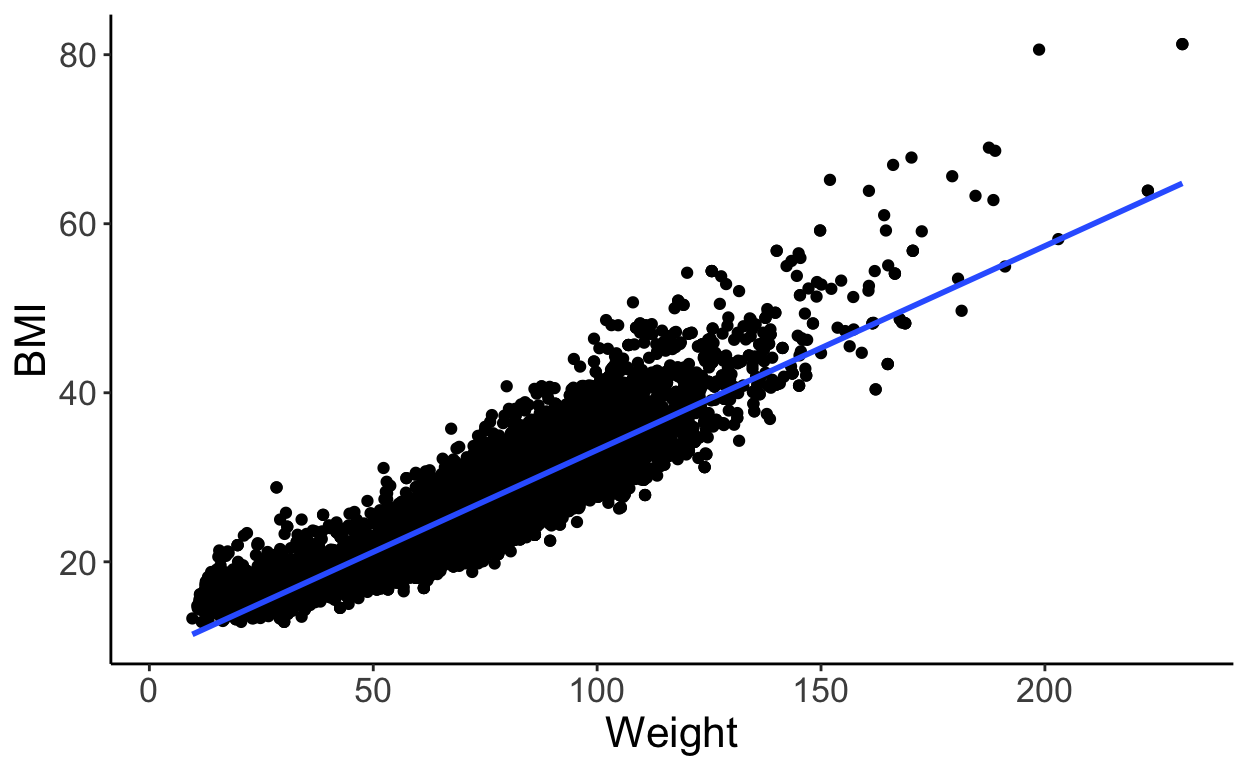
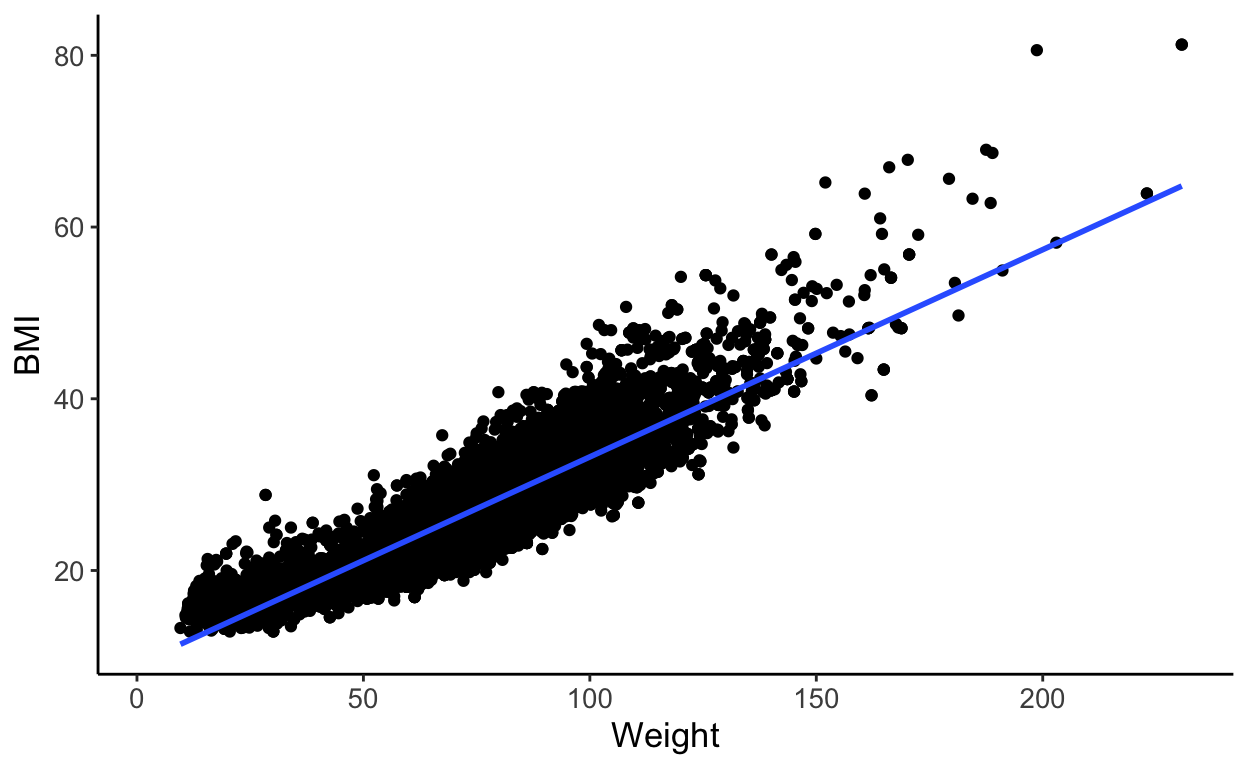
update

diff --git a/inst/tutorials/dataLiteracy/dataLiteracy.html b/inst/tutorials/dataLiteracy/dataLiteracy.html
@@ -92,15 +92,12 @@ if (window.hljs && document.readyState && document.readyState === "complete") {
 <h3>What a graph needs</h3>
 <ul>
 <li>Title (what it represents)</li>
-<li>Labeled Axes
+<li>Labeled Axes (with units, preferably)</li>
+<li>Variables and how they are represented</li>
+<li>Scales
 <ul>
-<li>Each aesthetic should have a scale/legend</li>
+<li>Is it a count or is it a proportion?</li>
 </ul></li>
-<li>How many variables and their types</li>
-<li>Scales</li>
-<li><p>Mapping the data to a visual property</p></li>
-<li>Title (most plots should have this)</li>
-<li>Axis labels (almost all plots should have this)</li>
 <li>How many variables and their types
 <ul>
 <li>Including ones used to dictate colors, shapes, patterns, sizes, opacities, etc.</li>
@@ -110,13 +107,13 @@ if (window.hljs && document.readyState && document.readyState === "complete") {
 </ul></li>
 <li>Dependent (“<em>outcome</em>” / “<em>response</em>”) variables are usually on the Y (vertical) axis</li>
 </ul></li>
-<li><p>Scales (especially log-transformed ones)</p></li>
 </ul>
+<p><img src="dataLiteracy_files/figure-html/unnamed-chunk-1-1.png" width="624" /></p>
 </div>
 </div>
 <div id="section-the-data-nhanes" class="section level2">
 <h2>The Data (NHANES)</h2>
-<p>We’re going to look at data from a study called NHANES (National Health and Nutrition Survey).</p>
+<p>We’re going to look at data from a study called <a href="">NHANES (National Health and Nutrition Survey)</a>.</p>
 <div id="section-what-does-the-data-actually-look-like" class="section level3">
 <h3>What does the data actually look like?</h3>
 <p>Here are the first 10 rows of the data table. Each row of the data corresponds to a patient.</p>
@@ -126,14 +123,14 @@ if (window.hljs && document.readyState && document.readyState === "complete") {
   </script>
 </div>
 
-<div id="htmlwidget-7bdc80034f0692f0893a" style="width:100%;height:auto;", class = "quiz html-widget">
+<div id="htmlwidget-906f34c1c5ff8fb811c9" style="width:100%;height:auto;", class = "quiz html-widget">
 <div class="panel panel-default">
 <div class="panel-body quizArea">
 </div>
 </div>
 </div>
 
-<script type="application/json" data-for="htmlwidget-7bdc80034f0692f0893a">{"x":{"question":"How many patients have Diabetes (Diabetes = <code>yes<\/code>) and are Male (Gender = <code>Male<\/code>) from these first 10 rows?","answers":[{"option":"There are 3 patients.","correct":true,"message":"Correct. There are 3 patients who have diabetes and are male."},{"option":"There are 4 patients.","correct":false,"message":"Not quite. Go back and count."},{"option":"There are 5 patients.","correct":false,"message":"Not quite. Go back and count.."}],"label":"datatable","skipStartButton":true,"perQuestionResponseAnswers":true,"perQuestionResponseMessaging":true,"preventUnanswered":true,"displayQuestionCount":false,"displayQuestionNumber":false,"disableRanking":true,"nextQuestionText":"","checkAnswerText":"Submit Answer","allowRetry":true,"randomSortAnswers":false,"json":{"info":{"name":"","main":""},"questions":[{"q":"How many patients have Diabetes (Diabetes = <code>yes<\/code>) and are Male (Gender = <code>Male<\/code>) from these first 10 rows?","a":[{"option":"There are 3 patients.","correct":true,"message":"Correct. There are 3 patients who have diabetes and are male."},{"option":"There are 4 patients.","correct":false,"message":"Not quite. Go back and count."},{"option":"There are 5 patients.","correct":false,"message":"Not quite. Go back and count.."}],"correct":"Correct!","incorrect":"Incorrect."}]}},"evals":[],"jsHooks":[]}</script>
+<script type="application/json" data-for="htmlwidget-906f34c1c5ff8fb811c9">{"x":{"question":"How many patients have High BMI (BMIstatus = <code>High<\/code>) and are Male (Gender = <code>Male<\/code>) from these first 10 rows?","answers":[{"option":"There are 3 patients.","correct":false,"message":"Not quite. Go back and count."},{"option":"There are 4 patients.","correct":true,"message":"Correct. There are 4 patients who have high BMI and are male."},{"option":"There are 5 patients.","correct":false,"message":"Not quite. Go back and count."}],"label":"datatable","skipStartButton":true,"perQuestionResponseAnswers":true,"perQuestionResponseMessaging":true,"preventUnanswered":true,"displayQuestionCount":false,"displayQuestionNumber":false,"disableRanking":true,"nextQuestionText":"","checkAnswerText":"Submit Answer","allowRetry":true,"randomSortAnswers":false,"json":{"info":{"name":"","main":""},"questions":[{"q":"How many patients have High BMI (BMIstatus = <code>High<\/code>) and are Male (Gender = <code>Male<\/code>) from these first 10 rows?","a":[{"option":"There are 3 patients.","correct":false,"message":"Not quite. Go back and count."},{"option":"There are 4 patients.","correct":true,"message":"Correct. There are 4 patients who have high BMI and are male."},{"option":"There are 5 patients.","correct":false,"message":"Not quite. Go back and count."}],"correct":"Correct!","incorrect":"Incorrect."}]}},"evals":[],"jsHooks":[]}</script>
 </div>
 <div id="section-summary-data" class="section level3">
 <h3>Summary Data</h3>
@@ -150,14 +147,14 @@ summary(bmi_diabetes)</code></pre>
 ##  Max.   :81.25                             Max.   :80.00              
 ##  NA&#39;s   :63</code></pre>
 
-<div id="htmlwidget-d943aea15da7e136b0f4" style="width:100%;height:auto;", class = "quiz html-widget">
+<div id="htmlwidget-e694abf862c23d84e5df" style="width:100%;height:auto;", class = "quiz html-widget">
 <div class="panel panel-default">
 <div class="panel-body quizArea">
 </div>
 </div>
 </div>
 
-<script type="application/json" data-for="htmlwidget-d943aea15da7e136b0f4">{"x":{"question":"What can we learn from this summary table?","answers":[{"option":"The smallest BMI value is 15.","correct":true,"message":"Correct!"},{"option":"There are two variables","correct":false,"message":"Not quite. There&#39;s <code>outcome<\/code>, <code>smoker<\/code>, and <code>age<\/code>."},{"option":"You are considered as having diabetes versus not having diabetes","correct":true,"message":"Yes, that&#39;s correct!"},{"option":"The age range of the patients includes minors.","correct":false,"message":"Incorrect. Look at the min value for age."},{"option":"The average age of the participant was around 47 years of age","correct":"Yes, the mean age was 46.92 years of age. Yes, you can see it as the mean value for the age","message":null}],"label":"summary","skipStartButton":true,"perQuestionResponseAnswers":true,"perQuestionResponseMessaging":true,"preventUnanswered":true,"displayQuestionCount":false,"displayQuestionNumber":false,"disableRanking":true,"nextQuestionText":"","checkAnswerText":"Submit Answer","allowRetry":true,"randomSortAnswers":false,"json":{"info":{"name":"","main":""},"questions":[{"q":"What can we learn from this summary table?","a":[{"option":"The smallest BMI value is 15.","correct":true,"message":"Correct!"},{"option":"There are two variables","correct":false,"message":"Not quite. There&#39;s <code>outcome<\/code>, <code>smoker<\/code>, and <code>age<\/code>."},{"option":"You are considered as having diabetes versus not having diabetes","correct":true,"message":"Yes, that&#39;s correct!"},{"option":"The age range of the patients includes minors.","correct":false,"message":"Incorrect. Look at the min value for age."},{"option":"The average age of the participant was around 47 years of age","correct":"Yes, the mean age was 46.92 years of age. Yes, you can see it as the mean value for the age","message":null}],"correct":"Correct!","incorrect":"Incorrect."}]}},"evals":[],"jsHooks":[]}</script>
+<script type="application/json" data-for="htmlwidget-e694abf862c23d84e5df">{"x":{"question":"What can we learn from this summary table?","answers":[{"option":"The smallest BMI value is 15.","correct":true,"message":"Correct!"},{"option":"There are two variables","correct":false,"message":"Not quite. There&#39;s <code>outcome<\/code>, <code>smoker<\/code>, and <code>age<\/code>."},{"option":"You are considered as having diabetes versus not having diabetes","correct":true,"message":"Yes, that&#39;s correct!"},{"option":"The age range of the patients includes minors.","correct":false,"message":"Incorrect. Look at the min value for age."},{"option":"The average age of the participant was around 47 years of age","correct":"Yes, the mean age was 46.92 years of age. Yes, you can see it as the mean value for the age","message":null}],"label":"summary","skipStartButton":true,"perQuestionResponseAnswers":true,"perQuestionResponseMessaging":true,"preventUnanswered":true,"displayQuestionCount":false,"displayQuestionNumber":false,"disableRanking":true,"nextQuestionText":"","checkAnswerText":"Submit Answer","allowRetry":true,"randomSortAnswers":false,"json":{"info":{"name":"","main":""},"questions":[{"q":"What can we learn from this summary table?","a":[{"option":"The smallest BMI value is 15.","correct":true,"message":"Correct!"},{"option":"There are two variables","correct":false,"message":"Not quite. There&#39;s <code>outcome<\/code>, <code>smoker<\/code>, and <code>age<\/code>."},{"option":"You are considered as having diabetes versus not having diabetes","correct":true,"message":"Yes, that&#39;s correct!"},{"option":"The age range of the patients includes minors.","correct":false,"message":"Incorrect. Look at the min value for age."},{"option":"The average age of the participant was around 47 years of age","correct":"Yes, the mean age was 46.92 years of age. Yes, you can see it as the mean value for the age","message":null}],"correct":"Correct!","incorrect":"Incorrect."}]}},"evals":[],"jsHooks":[]}</script>
 </div>
 </div>
 <div id="section-categorical-data" class="section level2">
@@ -172,19 +169,24 @@ summary(bmi_diabetes)</code></pre>
 ## 6350  742</code></pre>
 <p>Here’s another way to look at the data, a bar plot. You can instantly see which of the groups is larger.</p>
 <pre class="r"><code>bmi_diabetes %&gt;% tidyr::drop_na() %&gt;% ggplot(aes(x=Diabetes)) + geom_bar() + ggtitle(&quot;Summary of Patients: Diabetes&quot;)</code></pre>
-<p><img src="dataLiteracy_files/figure-html/unnamed-chunk-4-1.png" width="624" /></p>
+<p><img src="dataLiteracy_files/figure-html/unnamed-chunk-5-1.png" width="624" /></p>
 <p>Sometimes it is easier to look at a table, but usually a bar chart will make things more obvious.</p>
 </div>
 <div id="section-stacked-barplots" class="section level3">
 <h3>Stacked Barplots</h3>
 <p>We can also stack values on top of each other to make a stacked barplot. This can be useful when comparing categories.</p>
-<p><img src="dataLiteracy_files/figure-html/unnamed-chunk-5-1.png" width="624" /></p>
+<p><img src="dataLiteracy_files/figure-html/unnamed-chunk-6-1.png" width="624" /></p>
+</div>
+<div id="section-look-at-the-scale" class="section level3">
+<h3>Look at the scale</h3>
+<p>What does the y-axis represent in each of these graphs?</p>
+<p><img src="dataLiteracy_files/figure-html/unnamed-chunk-7-1.png" width="672" /></p>
 </div>
 <div id="section-stacked-barplots-vs-pie-charts" class="section level3">
 <h3>Stacked Barplots vs Pie Charts</h3>
 <p>Pie charts are ok for variables that just have two or three categories, but they become difficult to compare across two pie charts.</p>
 <p>Take a look at the barchart and pie chart. Which group (<code>male</code> or <code>female</code>) has the larger proportion of Diabetes patients? (Note that the scale has changed!)</p>
-<p><img src="dataLiteracy_files/figure-html/unnamed-chunk-6-1.png" width="624" /><img src="dataLiteracy_files/figure-html/unnamed-chunk-6-2.png" width="624" /></p>
+<p><img src="dataLiteracy_files/figure-html/unnamed-chunk-8-1.png" width="624" /><img src="dataLiteracy_files/figure-html/unnamed-chunk-8-2.png" width="624" /></p>
 </div>
 </div>
 <div id="section-continuous-data" class="section level2">
@@ -193,7 +195,7 @@ summary(bmi_diabetes)</code></pre>
 <h3>Histograms</h3>
 <p>A <a href="https://en.wikipedia.org/wiki/Histogram">histogram</a> shows the distribution of a continuous variable by splitting it into bins and counting how many observations fall into each bin (left).</p>
 <p>You can think of a histogram as a bar graph where the x variable is numeric.</p>
-<p><img src="dataLiteracy_files/figure-html/unnamed-chunk-7-1.png" width="624" /></p>
+<p><img src="dataLiteracy_files/figure-html/unnamed-chunk-9-1.png" width="624" /></p>
 <p><a href="https://github.com/bearloga/wmf-allhands18">Definition edited from Mikhail Popov</a></p>
 </div>
 <div id="section-histogram-play-with-the-bins" class="section level3">
@@ -224,7 +226,7 @@ summary(bmi_diabetes)</code></pre>
 <div id="section-something-weird-about-age" class="section level3">
 <h3>Something weird about age</h3>
 <p>Let’s look at our other continuous covariate, <code>Age</code>. Does the dotplot show anything weird to you?</p>
-<p><img src="dataLiteracy_files/figure-html/unnamed-chunk-12-1.png" width="624" /></p>
+<p><img src="dataLiteracy_files/figure-html/unnamed-chunk-14-1.png" width="624" /></p>
 </div>
 </div>
 <div id="section-relationships-2-categorical-variables" class="section level2">
@@ -253,16 +255,16 @@ summary(bmi_diabetes)</code></pre>
 </div>
 <div id="section-quiz-yourself" class="section level3">
 <h3>Quiz Yourself</h3>
-<p><img src="dataLiteracy_files/figure-html/unnamed-chunk-16-1.png" width="624" /></p>
+<p><img src="dataLiteracy_files/figure-html/unnamed-chunk-18-1.png" width="624" /></p>
 
-<div id="htmlwidget-ad094a00625fa38c3d9d" style="width:100%;height:auto;", class = "quiz html-widget">
+<div id="htmlwidget-54c11ab3ba2e1dbdf4f8" style="width:100%;height:auto;", class = "quiz html-widget">
 <div class="panel panel-default">
 <div class="panel-body quizArea">
 </div>
 </div>
 </div>
 
-<script type="application/json" data-for="htmlwidget-ad094a00625fa38c3d9d">{"x":{"question":"Is there a large difference in proportions of those who have Diabetes between Men and Women in our study?","answers":[{"option":"Yes, and there is a large difference","correct":false,"message":"Take a look at the proportions between men and women again."},{"option":"Yes, there is a difference, but it&#39;s not very big","correct":true,"message":"Yes, there&#39;s a difference"},{"option":"No, there is no difference","correct":false,"message":"There&#39;s a little difference, take another look."}],"label":"proportions","skipStartButton":true,"perQuestionResponseAnswers":true,"perQuestionResponseMessaging":true,"preventUnanswered":true,"displayQuestionCount":false,"displayQuestionNumber":false,"disableRanking":true,"nextQuestionText":"","checkAnswerText":"Submit Answer","allowRetry":true,"randomSortAnswers":true,"json":{"info":{"name":"","main":""},"questions":[{"q":"Is there a large difference in proportions of those who have Diabetes between Men and Women in our study?","a":[{"option":"Yes, and there is a large difference","correct":false,"message":"Take a look at the proportions between men and women again."},{"option":"Yes, there is a difference, but it&#39;s not very big","correct":true,"message":"Yes, there&#39;s a difference"},{"option":"No, there is no difference","correct":false,"message":"There&#39;s a little difference, take another look."}],"correct":"Correct!","incorrect":"Incorrect."}]}},"evals":[],"jsHooks":[]}</script>
+<script type="application/json" data-for="htmlwidget-54c11ab3ba2e1dbdf4f8">{"x":{"question":"Is there a large difference in proportions of those who have Diabetes between Men and Women in our study?","answers":[{"option":"Yes, and there is a large difference","correct":false,"message":"Take a look at the proportions between men and women again."},{"option":"Yes, there is a difference, but it&#39;s not very big","correct":true,"message":"Yes, there&#39;s a difference"},{"option":"No, there is no difference","correct":false,"message":"There&#39;s a little difference, take another look."}],"label":"proportions","skipStartButton":true,"perQuestionResponseAnswers":true,"perQuestionResponseMessaging":true,"preventUnanswered":true,"displayQuestionCount":false,"displayQuestionNumber":false,"disableRanking":true,"nextQuestionText":"","checkAnswerText":"Submit Answer","allowRetry":true,"randomSortAnswers":true,"json":{"info":{"name":"","main":""},"questions":[{"q":"Is there a large difference in proportions of those who have Diabetes between Men and Women in our study?","a":[{"option":"Yes, and there is a large difference","correct":false,"message":"Take a look at the proportions between men and women again."},{"option":"Yes, there is a difference, but it&#39;s not very big","correct":true,"message":"Yes, there&#39;s a difference"},{"option":"No, there is no difference","correct":false,"message":"There&#39;s a little difference, take another look."}],"correct":"Correct!","incorrect":"Incorrect."}]}},"evals":[],"jsHooks":[]}</script>
 </div>
 </div>
 <div id="section-relationships-1-categorical-1-continuous" class="section level2">
@@ -303,14 +305,14 @@ summary(bmi_diabetes)</code></pre>
 </div>
 </div><div id="boxplot1" class="shiny-plot-output" style="width: 100% ; height: 400px"></div></p>
 
-<div id="htmlwidget-ec08c79ebef70e1acb31" style="width:100%;height:auto;", class = "quiz html-widget">
+<div id="htmlwidget-0f74a5c76032bbed4183" style="width:100%;height:auto;", class = "quiz html-widget">
 <div class="panel panel-default">
 <div class="panel-body quizArea">
 </div>
 </div>
 </div>
 
-<script type="application/json" data-for="htmlwidget-ec08c79ebef70e1acb31">{"x":{"question":"Is there a difference between median BMI between those that have diabetes that those who dont?","answers":[{"option":"no, there isn&#39;t a difference","correct":false,"message":""},{"option":"yes, but the difference is small","correct":false,"message":"You&#39;re on the right track. Take a look at the categorization of BMI"},{"option":"yes, and the difference is big","correct":true,"message":null}],"label":"boxplot2","skipStartButton":true,"perQuestionResponseAnswers":true,"perQuestionResponseMessaging":true,"preventUnanswered":true,"displayQuestionCount":false,"displayQuestionNumber":false,"disableRanking":true,"nextQuestionText":"","checkAnswerText":"Submit Answer","allowRetry":true,"randomSortAnswers":true,"json":{"info":{"name":"","main":""},"questions":[{"q":"Is there a difference between median BMI between those that have diabetes that those who dont?","a":[{"option":"no, there isn&#39;t a difference","correct":false,"message":""},{"option":"yes, but the difference is small","correct":false,"message":"You&#39;re on the right track. Take a look at the categorization of BMI"},{"option":"yes, and the difference is big","correct":true,"message":null}],"correct":"Correct!","incorrect":"Incorrect."}]}},"evals":[],"jsHooks":[]}</script>
+<script type="application/json" data-for="htmlwidget-0f74a5c76032bbed4183">{"x":{"question":"Is there a difference between median BMI between those that have diabetes that those who dont?","answers":[{"option":"no, there isn&#39;t a difference","correct":false,"message":""},{"option":"yes, but the difference is small","correct":false,"message":"You&#39;re on the right track. Take a look at the categorization of BMI"},{"option":"yes, and the difference is big","correct":true,"message":null}],"label":"boxplot2","skipStartButton":true,"perQuestionResponseAnswers":true,"perQuestionResponseMessaging":true,"preventUnanswered":true,"displayQuestionCount":false,"displayQuestionNumber":false,"disableRanking":true,"nextQuestionText":"","checkAnswerText":"Submit Answer","allowRetry":true,"randomSortAnswers":true,"json":{"info":{"name":"","main":""},"questions":[{"q":"Is there a difference between median BMI between those that have diabetes that those who dont?","a":[{"option":"no, there isn&#39;t a difference","correct":false,"message":""},{"option":"yes, but the difference is small","correct":false,"message":"You&#39;re on the right track. Take a look at the categorization of BMI"},{"option":"yes, and the difference is big","correct":true,"message":null}],"correct":"Correct!","incorrect":"Incorrect."}]}},"evals":[],"jsHooks":[]}</script>
 </div>
 <div id="section-boxplots-do-lose-some-detail" class="section level3">
 <h3>Boxplots do lose some detail</h3>
@@ -324,7 +326,7 @@ summary(bmi_diabetes)</code></pre>
 <h3>Scatterplots</h3>
 <p>Scatterplots show the relationship between two continuous variables. We can add what’s called a <code>fit line</code> between the two variables. Ideally, we want to see a line that is diagonal as possible. A flat line means there is no association between variables.</p>
 <p>In this case, we are showing that knowing the values of one variable (<code>Weight</code>) means that you know something about another variable (<code>BMI</code>). Anyone know why?</p>
-<p><img src="dataLiteracy_files/figure-html/unnamed-chunk-21-1.png" width="624" /></p>
+<p><img src="dataLiteracy_files/figure-html/unnamed-chunk-23-1.png" width="624" /></p>
 </div>
 <div id="section-look-at-the-relationship-between-continuous-variables" class="section level3">
 <h3>Look at the relationship between continuous variables</h3>
@@ -377,7 +379,7 @@ summary(bmi_diabetes)</code></pre>
 </div>
 </div>
 <div id="section-section" class="section level2">
-<h2><img src="dataLiteracy_files/figure-html/unnamed-chunk-24-1.png" width="624" /></h2>
+<h2><img src="dataLiteracy_files/figure-html/unnamed-chunk-26-1.png" width="624" /></h2>
 </div>
 <div id="section-quiz-yourself-1" class="section level2">
 <h2>Quiz Yourself</h2>
@@ -386,14 +388,14 @@ summary(bmi_diabetes)</code></pre>
 <p>Take a look at the distributions of annual income graph here and compare 1960 to 2016.</p>
 <p><a href="https://flowingdata.com/2016/06/28/distributions-of-annual-income/" class="uri">https://flowingdata.com/2016/06/28/distributions-of-annual-income/</a></p>
 
-<div id="htmlwidget-35981e244f9e80718bbc" style="width:100%;height:auto;", class = "quiz html-widget">
+<div id="htmlwidget-6f6afae643bef2b0f721" style="width:100%;height:auto;", class = "quiz html-widget">
 <div class="panel panel-default">
 <div class="panel-body quizArea">
 </div>
 </div>
 </div>
 
-<script type="application/json" data-for="htmlwidget-35981e244f9e80718bbc">{"x":{"question":"For healthcare practicioners, what is true about comparing income from 1960 to 2016?","answers":[{"option":"The maximum healthcare income is higher for 2016 to 1960","correct":true,"message":"Yes, the highest paid income is over $200,000 for 2016, and the highest income for 1960 is about $170,000"},{"option":"In general, healthcare salaries have increased","correct":true,"message":"Yes. True."},{"option":"Healthcare professionals like cats","correct":false,"message":"That&#39;s nowhere in the graph!"}],"label":"distributions","skipStartButton":true,"perQuestionResponseAnswers":true,"perQuestionResponseMessaging":true,"preventUnanswered":true,"displayQuestionCount":false,"displayQuestionNumber":false,"disableRanking":true,"nextQuestionText":"","checkAnswerText":"Submit Answer","allowRetry":true,"randomSortAnswers":false,"json":{"info":{"name":"","main":""},"questions":[{"q":"For healthcare practicioners, what is true about comparing income from 1960 to 2016?","a":[{"option":"The maximum healthcare income is higher for 2016 to 1960","correct":true,"message":"Yes, the highest paid income is over $200,000 for 2016, and the highest income for 1960 is about $170,000"},{"option":"In general, healthcare salaries have increased","correct":true,"message":"Yes. True."},{"option":"Healthcare professionals like cats","correct":false,"message":"That&#39;s nowhere in the graph!"}],"correct":"Correct!","incorrect":"Incorrect."}]}},"evals":[],"jsHooks":[]}</script>
+<script type="application/json" data-for="htmlwidget-6f6afae643bef2b0f721">{"x":{"question":"For healthcare practicioners, what is true about comparing income from 1960 to 2016?","answers":[{"option":"The maximum healthcare income is higher for 2016 to 1960","correct":true,"message":"Yes, the highest paid income is over $200,000 for 2016, and the highest income for 1960 is about $170,000"},{"option":"In general, healthcare salaries have increased","correct":true,"message":"Yes. True."},{"option":"Healthcare professionals like cats","correct":false,"message":"That&#39;s nowhere in the graph!"}],"label":"distributions","skipStartButton":true,"perQuestionResponseAnswers":true,"perQuestionResponseMessaging":true,"preventUnanswered":true,"displayQuestionCount":false,"displayQuestionNumber":false,"disableRanking":true,"nextQuestionText":"","checkAnswerText":"Submit Answer","allowRetry":true,"randomSortAnswers":false,"json":{"info":{"name":"","main":""},"questions":[{"q":"For healthcare practicioners, what is true about comparing income from 1960 to 2016?","a":[{"option":"The maximum healthcare income is higher for 2016 to 1960","correct":true,"message":"Yes, the highest paid income is over $200,000 for 2016, and the highest income for 1960 is about $170,000"},{"option":"In general, healthcare salaries have increased","correct":true,"message":"Yes. True."},{"option":"Healthcare professionals like cats","correct":false,"message":"That&#39;s nowhere in the graph!"}],"correct":"Correct!","incorrect":"Incorrect."}]}},"evals":[],"jsHooks":[]}</script>
 </div>
 <div id="section-quiz-yourself-looking-at-multiple-categories" class="section level3">
 <h3>Quiz Yourself: Looking at Multiple Categories</h3>
@@ -404,22 +406,22 @@ summary(bmi_diabetes)</code></pre>
 <p class="caption">Bechdel Test and Movies</p>
 </div>
 <p>
-<div id="htmlwidget-40e2e4e97a718cf47077" style="width:100%;height:auto;", class = "quiz html-widget">
+<div id="htmlwidget-d89cc8bb629aa5bebac9" style="width:100%;height:auto;", class = "quiz html-widget">
 <div class="panel panel-default">
 <div class="panel-body quizArea">
 </div>
 </div>
 </div>
 
-<script type="application/json" data-for="htmlwidget-40e2e4e97a718cf47077">{"x":{"question":"What does the black line in the middle of the graph represent?","answers":[{"option":"It&#39;s just for show","correct":false,"message":"Take a look at the colors"},{"option":"Men versus Women","correct":false,"message":"take a look at the legend again."},{"option":"The division between those movies that pass the test, and those that fail","correct":true,"message":null}],"label":"bechdel","skipStartButton":true,"perQuestionResponseAnswers":true,"perQuestionResponseMessaging":true,"preventUnanswered":true,"displayQuestionCount":false,"displayQuestionNumber":false,"disableRanking":true,"nextQuestionText":"","checkAnswerText":"Submit Answer","allowRetry":true,"randomSortAnswers":false,"json":{"info":{"name":"","main":""},"questions":[{"q":"What does the black line in the middle of the graph represent?","a":[{"option":"It&#39;s just for show","correct":false,"message":"Take a look at the colors"},{"option":"Men versus Women","correct":false,"message":"take a look at the legend again."},{"option":"The division between those movies that pass the test, and those that fail","correct":true,"message":null}],"correct":"Correct!","incorrect":"Incorrect."}]}},"evals":[],"jsHooks":[]}</script>
-<div id="htmlwidget-a217cfc807b75b3afc80" style="width:100%;height:auto;", class = "quiz html-widget">
+<script type="application/json" data-for="htmlwidget-d89cc8bb629aa5bebac9">{"x":{"question":"What does the black line in the middle of the graph represent?","answers":[{"option":"It&#39;s just for show","correct":false,"message":"Take a look at the colors"},{"option":"Men versus Women","correct":false,"message":"take a look at the legend again."},{"option":"The division between those movies that pass the test, and those that fail","correct":true,"message":null}],"label":"bechdel","skipStartButton":true,"perQuestionResponseAnswers":true,"perQuestionResponseMessaging":true,"preventUnanswered":true,"displayQuestionCount":false,"displayQuestionNumber":false,"disableRanking":true,"nextQuestionText":"","checkAnswerText":"Submit Answer","allowRetry":true,"randomSortAnswers":false,"json":{"info":{"name":"","main":""},"questions":[{"q":"What does the black line in the middle of the graph represent?","a":[{"option":"It&#39;s just for show","correct":false,"message":"Take a look at the colors"},{"option":"Men versus Women","correct":false,"message":"take a look at the legend again."},{"option":"The division between those movies that pass the test, and those that fail","correct":true,"message":null}],"correct":"Correct!","incorrect":"Incorrect."}]}},"evals":[],"jsHooks":[]}</script>
+<div id="htmlwidget-16c594dec8958856ba70" style="width:100%;height:auto;", class = "quiz html-widget">
 <div class="panel panel-default">
 <div class="panel-body quizArea">
 </div>
 </div>
 </div>
 
-<script type="application/json" data-for="htmlwidget-a217cfc807b75b3afc80">{"x":{"question":"Are there more movies in 2010-2013 that pass the test than those in 1970-1974?","answers":[{"option":"Yes, there are more movies that pass the test","correct":true,"message":null},{"option":"No, there are not more movies that pass the test.","correct":false,"message":null}],"label":"bechdel","skipStartButton":true,"perQuestionResponseAnswers":true,"perQuestionResponseMessaging":true,"preventUnanswered":true,"displayQuestionCount":false,"displayQuestionNumber":false,"disableRanking":true,"nextQuestionText":"","checkAnswerText":"Submit Answer","allowRetry":true,"randomSortAnswers":false,"json":{"info":{"name":"","main":""},"questions":[{"q":"Are there more movies in 2010-2013 that pass the test than those in 1970-1974?","a":[{"option":"Yes, there are more movies that pass the test","correct":true,"message":null},{"option":"No, there are not more movies that pass the test.","correct":false,"message":null}],"correct":"Correct!","incorrect":"Incorrect."}]}},"evals":[],"jsHooks":[]}</script></p>
+<script type="application/json" data-for="htmlwidget-16c594dec8958856ba70">{"x":{"question":"Are there more movies in 2010-2013 that pass the test than those in 1970-1974?","answers":[{"option":"Yes, there are more movies that pass the test","correct":true,"message":null},{"option":"No, there are not more movies that pass the test.","correct":false,"message":null}],"label":"bechdel","skipStartButton":true,"perQuestionResponseAnswers":true,"perQuestionResponseMessaging":true,"preventUnanswered":true,"displayQuestionCount":false,"displayQuestionNumber":false,"disableRanking":true,"nextQuestionText":"","checkAnswerText":"Submit Answer","allowRetry":true,"randomSortAnswers":false,"json":{"info":{"name":"","main":""},"questions":[{"q":"Are there more movies in 2010-2013 that pass the test than those in 1970-1974?","a":[{"option":"Yes, there are more movies that pass the test","correct":true,"message":null},{"option":"No, there are not more movies that pass the test.","correct":false,"message":null}],"correct":"Correct!","incorrect":"Incorrect."}]}},"evals":[],"jsHooks":[]}</script></p>
 <p>What about the subcategories, such as <code>Women only talk about men</code>? Is it easy or hard to see if they are changing with time?</p>
 </div>
 <div id="section-did-your-senatorial-vote-predict-your-presidential-vote" class="section level3">
@@ -430,14 +432,27 @@ summary(bmi_diabetes)</code></pre>
 <p class="caption"><a href="https://fivethirtyeight.com/features/can-a-democrat-still-win-the-kentucky-governors-race/" class="uri">https://fivethirtyeight.com/features/can-a-democrat-still-win-the-kentucky-governors-race/</a></p>
 </div>
 
-<div id="htmlwidget-d2030aa51441ce1aa031" style="width:100%;height:auto;", class = "quiz html-widget">
+<div id="htmlwidget-d7b70edf04d0235604fc" style="width:100%;height:auto;", class = "quiz html-widget">
 <div class="panel panel-default">
 <div class="panel-body quizArea">
 </div>
 </div>
 </div>
 
-<script type="application/json" data-for="htmlwidget-d2030aa51441ce1aa031">{"x":{"question":"For the chart above, were voters presidential preference in 2012 correlated with their vote for senators in 2014?","answers":[{"option":"Yes, there&#39;s a strong correlation","correct":true,"message":null},{"option":"Yes, but it&#39;s a small correlation","correct":false,"message":"Look at the percentages. Is that a big effect or not?"},{"option":"No, there is no correlation.","correct":false,"message":"Take a look at the line. Is it on the diagonal?"}],"label":"vote","skipStartButton":true,"perQuestionResponseAnswers":true,"perQuestionResponseMessaging":true,"preventUnanswered":true,"displayQuestionCount":false,"displayQuestionNumber":false,"disableRanking":true,"nextQuestionText":"","checkAnswerText":"Submit Answer","allowRetry":false,"randomSortAnswers":false,"json":{"info":{"name":"","main":""},"questions":[{"q":"For the chart above, were voters presidential preference in 2012 correlated with their vote for senators in 2014?","a":[{"option":"Yes, there&#39;s a strong correlation","correct":true,"message":null},{"option":"Yes, but it&#39;s a small correlation","correct":false,"message":"Look at the percentages. Is that a big effect or not?"},{"option":"No, there is no correlation.","correct":false,"message":"Take a look at the line. Is it on the diagonal?"}],"correct":"Correct!","incorrect":"Incorrect."}]}},"evals":[],"jsHooks":[]}</script>
+<script type="application/json" data-for="htmlwidget-d7b70edf04d0235604fc">{"x":{"question":"For the chart above, were voters presidential preference in 2012 correlated with their vote for senators in 2014?","answers":[{"option":"Yes, there&#39;s a strong correlation","correct":true,"message":null},{"option":"Yes, but it&#39;s a small correlation","correct":false,"message":"Look at the percentages. Is that a big effect or not?"},{"option":"No, there is no correlation.","correct":false,"message":"Take a look at the line. Is it on the diagonal?"}],"label":"vote","skipStartButton":true,"perQuestionResponseAnswers":true,"perQuestionResponseMessaging":true,"preventUnanswered":true,"displayQuestionCount":false,"displayQuestionNumber":false,"disableRanking":true,"nextQuestionText":"","checkAnswerText":"Submit Answer","allowRetry":false,"randomSortAnswers":false,"json":{"info":{"name":"","main":""},"questions":[{"q":"For the chart above, were voters presidential preference in 2012 correlated with their vote for senators in 2014?","a":[{"option":"Yes, there&#39;s a strong correlation","correct":true,"message":null},{"option":"Yes, but it&#39;s a small correlation","correct":false,"message":"Look at the percentages. Is that a big effect or not?"},{"option":"No, there is no correlation.","correct":false,"message":"Take a look at the line. Is it on the diagonal?"}],"correct":"Correct!","incorrect":"Incorrect."}]}},"evals":[],"jsHooks":[]}</script>
+</div>
+</div>
+<div id="section-for-more-info" class="section level2">
+<h2>For More Info</h2>
+<div id="section-visualization-lies" class="section level3">
+<h3>Visualization Lies</h3>
+<p><a href="https://flowingdata.com/2017/02/09/how-to-spot-visualization-lies/" class="uri">https://flowingdata.com/2017/02/09/how-to-spot-visualization-lies/</a></p>
+<p><a href="http://fivethirtyeight.com/features/you-cant-trust-what-you-read-about-nutrition/" class="uri">http://fivethirtyeight.com/features/you-cant-trust-what-you-read-about-nutrition/</a></p>
+</div>
+<div id="section-acknowledgements" class="section level3">
+<h3>Acknowledgements</h3>
+<p>Portions of this tutorial are partially adapted from:</p>
+<p><a href="https://github.com/bearloga/wmf-allhands18" class="uri">https://github.com/bearloga/wmf-allhands18</a> <a href="https://github.com/laderast/dsiexplore" class="uri">https://github.com/laderast/dsiexplore</a></p>
 </div>
 </div>
 <div id="section-take-home-points" class="section level2">
@@ -457,34 +472,25 @@ summary(bmi_diabetes)</code></pre>
 <h3>Aesthetic Properties: Color</h3>
 <p>Beyond our basic plots, we might want to map different measurements to different visual properties.</p>
 <p>For the 2x2 bar plots, we mapped Diabetes to <em>color</em>.</p>
-<p><img src="dataLiteracy_files/figure-html/unnamed-chunk-25-1.png" width="624" /></p>
+<p><img src="dataLiteracy_files/figure-html/unnamed-chunk-27-1.png" width="624" /></p>
 <p>For scatterplots, we might want to code categorical data as <em>color</em> like the example below:</p>
-<p><img src="dataLiteracy_files/figure-html/unnamed-chunk-26-1.png" width="624" /></p>
+<p><img src="dataLiteracy_files/figure-html/unnamed-chunk-28-1.png" width="624" /></p>
 </div>
 <div id="section-aesthetic-properties-shape" class="section level3">
 <h3>Aesthetic Properties: Shape</h3>
 <p>Journals used to only allow black and white figures, so color couldn’t be used. One alternative is mapping our <code>Diabetes</code> Variable to <code>shape</code></p>
-<p><img src="dataLiteracy_files/figure-html/unnamed-chunk-27-1.png" width="624" /></p>
+<p><img src="dataLiteracy_files/figure-html/unnamed-chunk-29-1.png" width="624" /></p>
 </div>
 <div id="section-aesthetic-properties-cats" class="section level3">
 <h3>Aesthetic Properties: Cats</h3>
 <p>(This is just here for your amusement).</p>
-<p><img src="dataLiteracy_files/figure-html/unnamed-chunk-28-1.png" width="624" /></p>
+<p><img src="dataLiteracy_files/figure-html/unnamed-chunk-30-1.png" width="624" /></p>
 </div>
 <div id="section-waterfall-plots-optional" class="section level3">
 <h3>Waterfall Plots (optional)</h3>
 <p>Another way to visualize the relationship between a continuous variable and a categorical variable is a waterfall plot. With a waterfall plot, we plot each continuous value as a single bar and sort them increasing value. Each bar is then colored by the categorical variable.</p>
 <p>Each of these bars represents a person who smokes (Y/N) and their age. If you are older than 60, are you less likely to smoke?</p>
-<p><img src="dataLiteracy_files/figure-html/unnamed-chunk-29-1.png" width="624" /></p>
-</div>
-<div id="section-visualization-lies" class="section level3">
-<h3>Visualization Lies</h3>
-<p><a href="https://flowingdata.com/2017/02/09/how-to-spot-visualization-lies/" class="uri">https://flowingdata.com/2017/02/09/how-to-spot-visualization-lies/</a></p>
-</div>
-<div id="section-acknowledgements" class="section level3">
-<h3>Acknowledgements</h3>
-<p>Portions of this tutorial are partially adapted from:</p>
-<p><a href="https://github.com/bearloga/wmf-allhands18" class="uri">https://github.com/bearloga/wmf-allhands18</a> <a href="https://github.com/laderast/dsiexplore" class="uri">https://github.com/laderast/dsiexplore</a></p>
+<p><img src="dataLiteracy_files/figure-html/unnamed-chunk-31-1.png" width="624" /></p>
 
 <script type="application/shiny-prerendered" data-context="server-start">
 knitr::opts_chunk$set(echo = FALSE, warning=FALSE, message=FALSE)
@@ -499,7 +505,7 @@ library(fivethirtyeight)
 library(dataLiteracyTutorial)
 data("NHANES")
 theme_set(theme_classic())
-theme_update(text=element_text(size = 16)) 
+theme_update(text=element_text(size = 13)) 
 data("bmi_diabetes",package = "dataLiteracyTutorial")
 </script>
  
